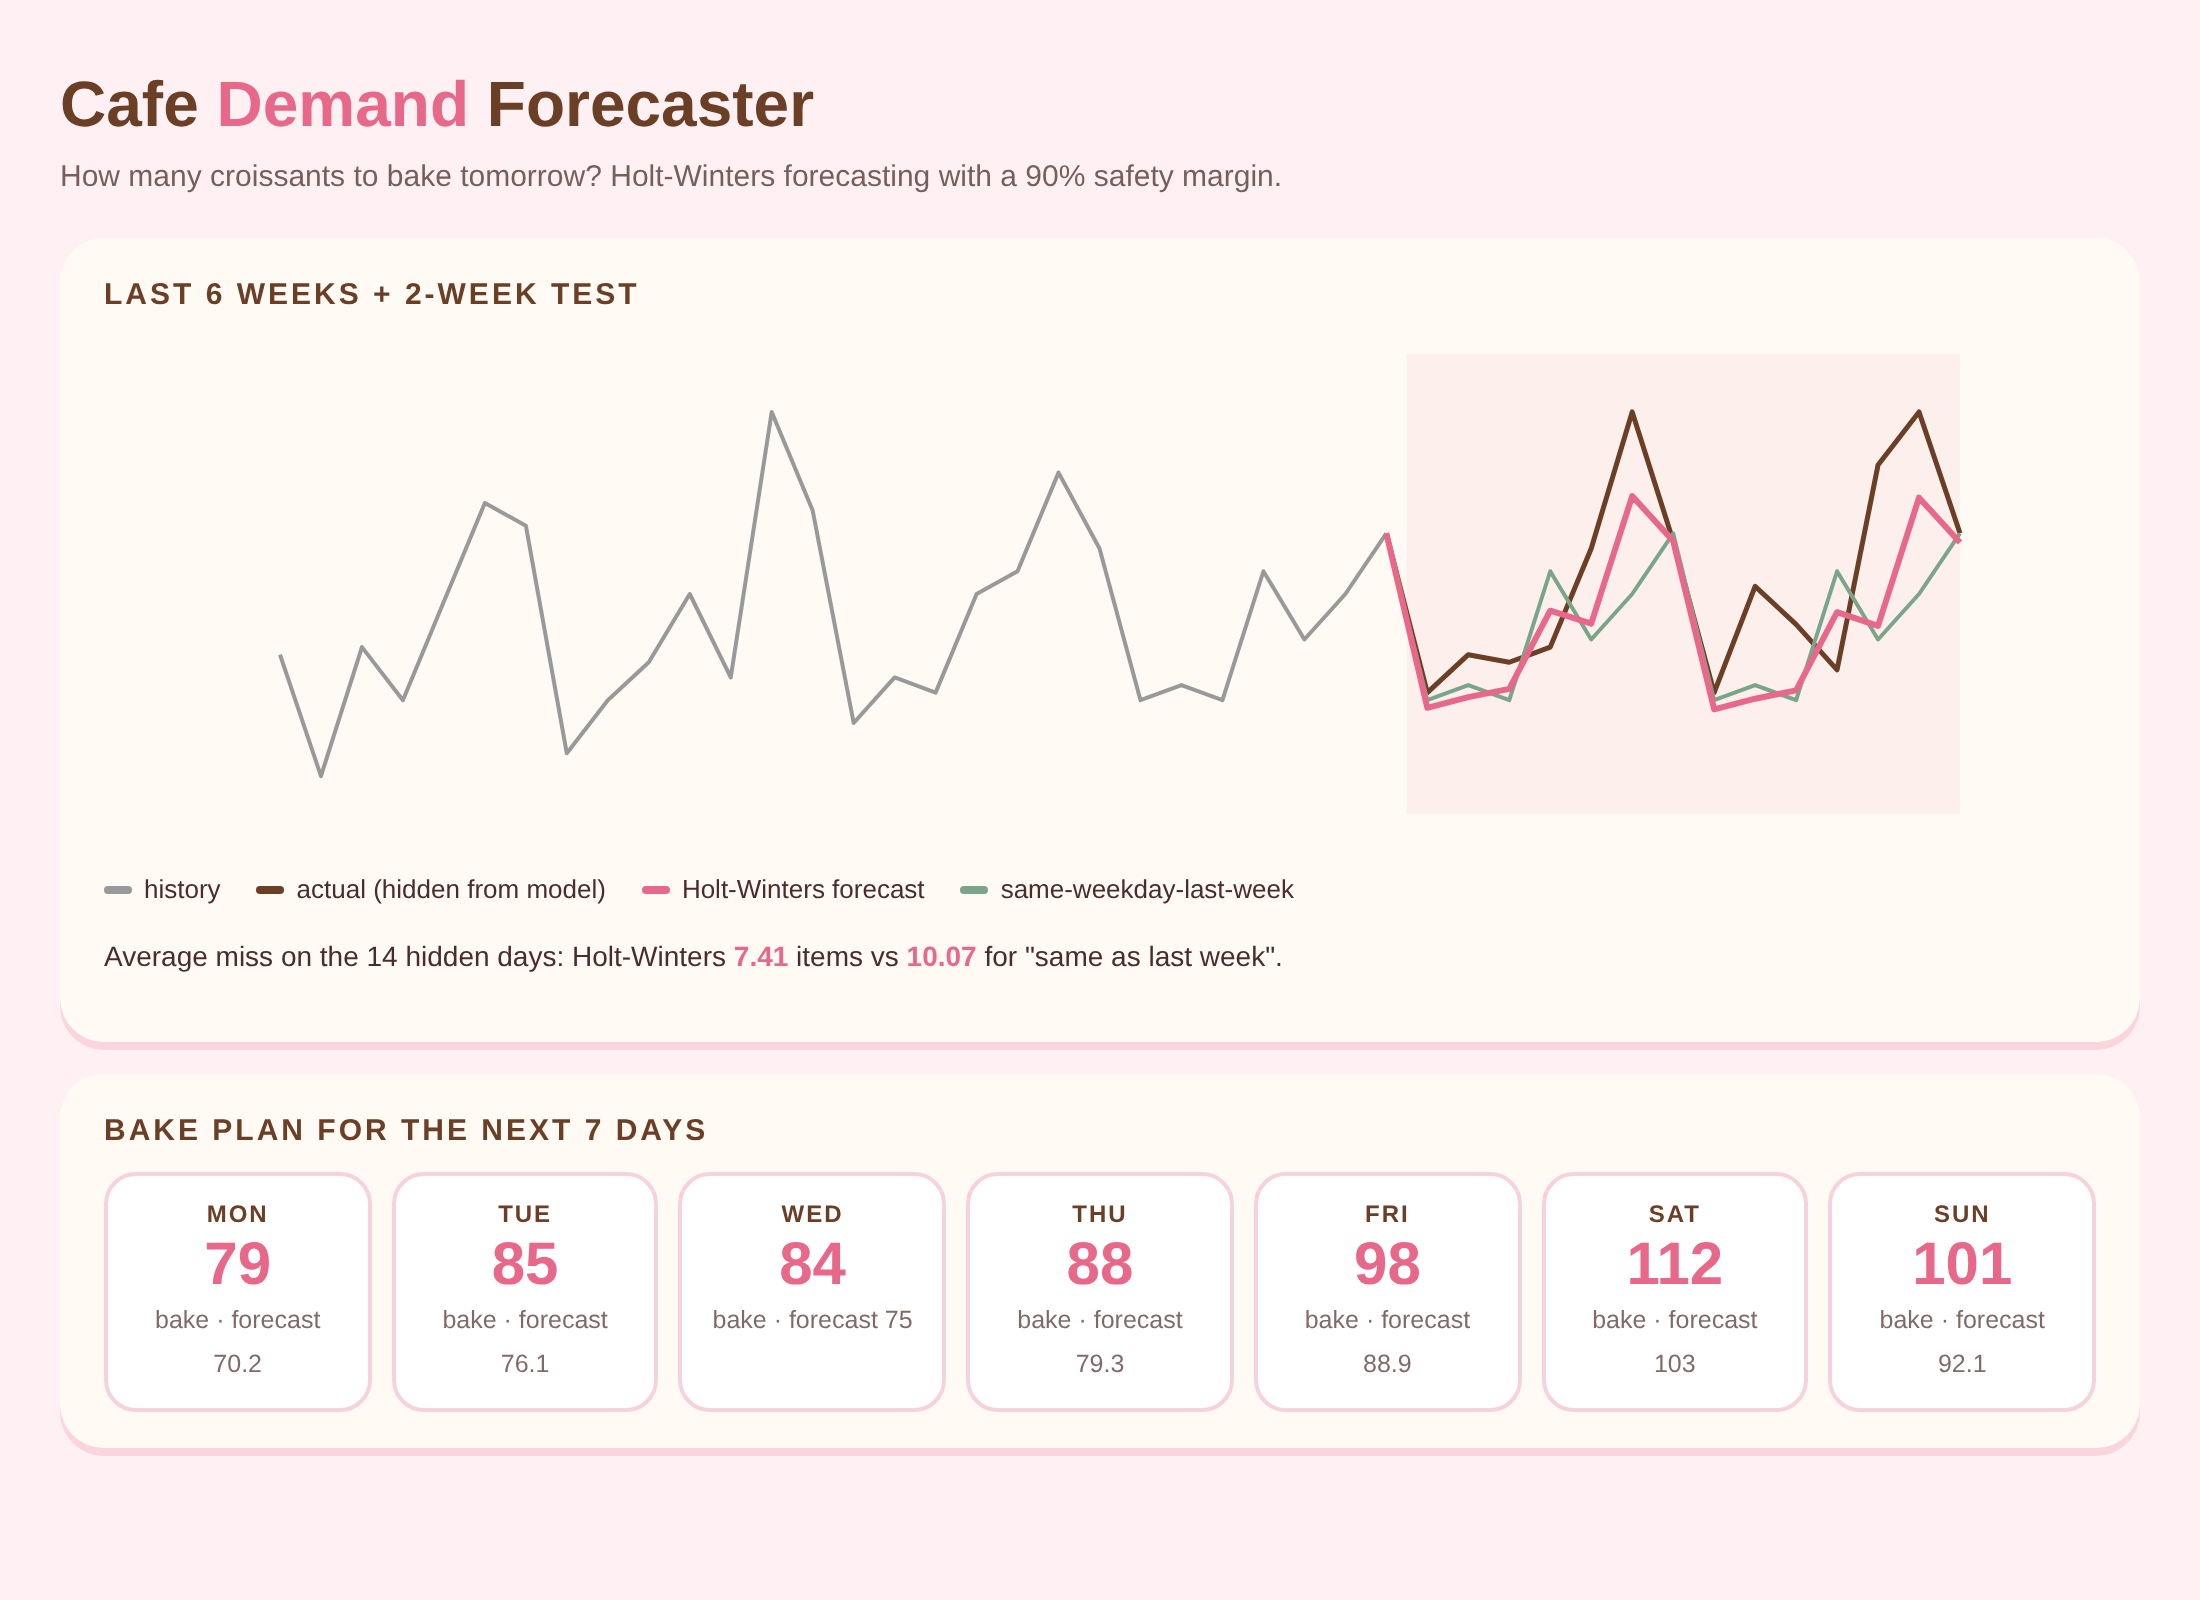
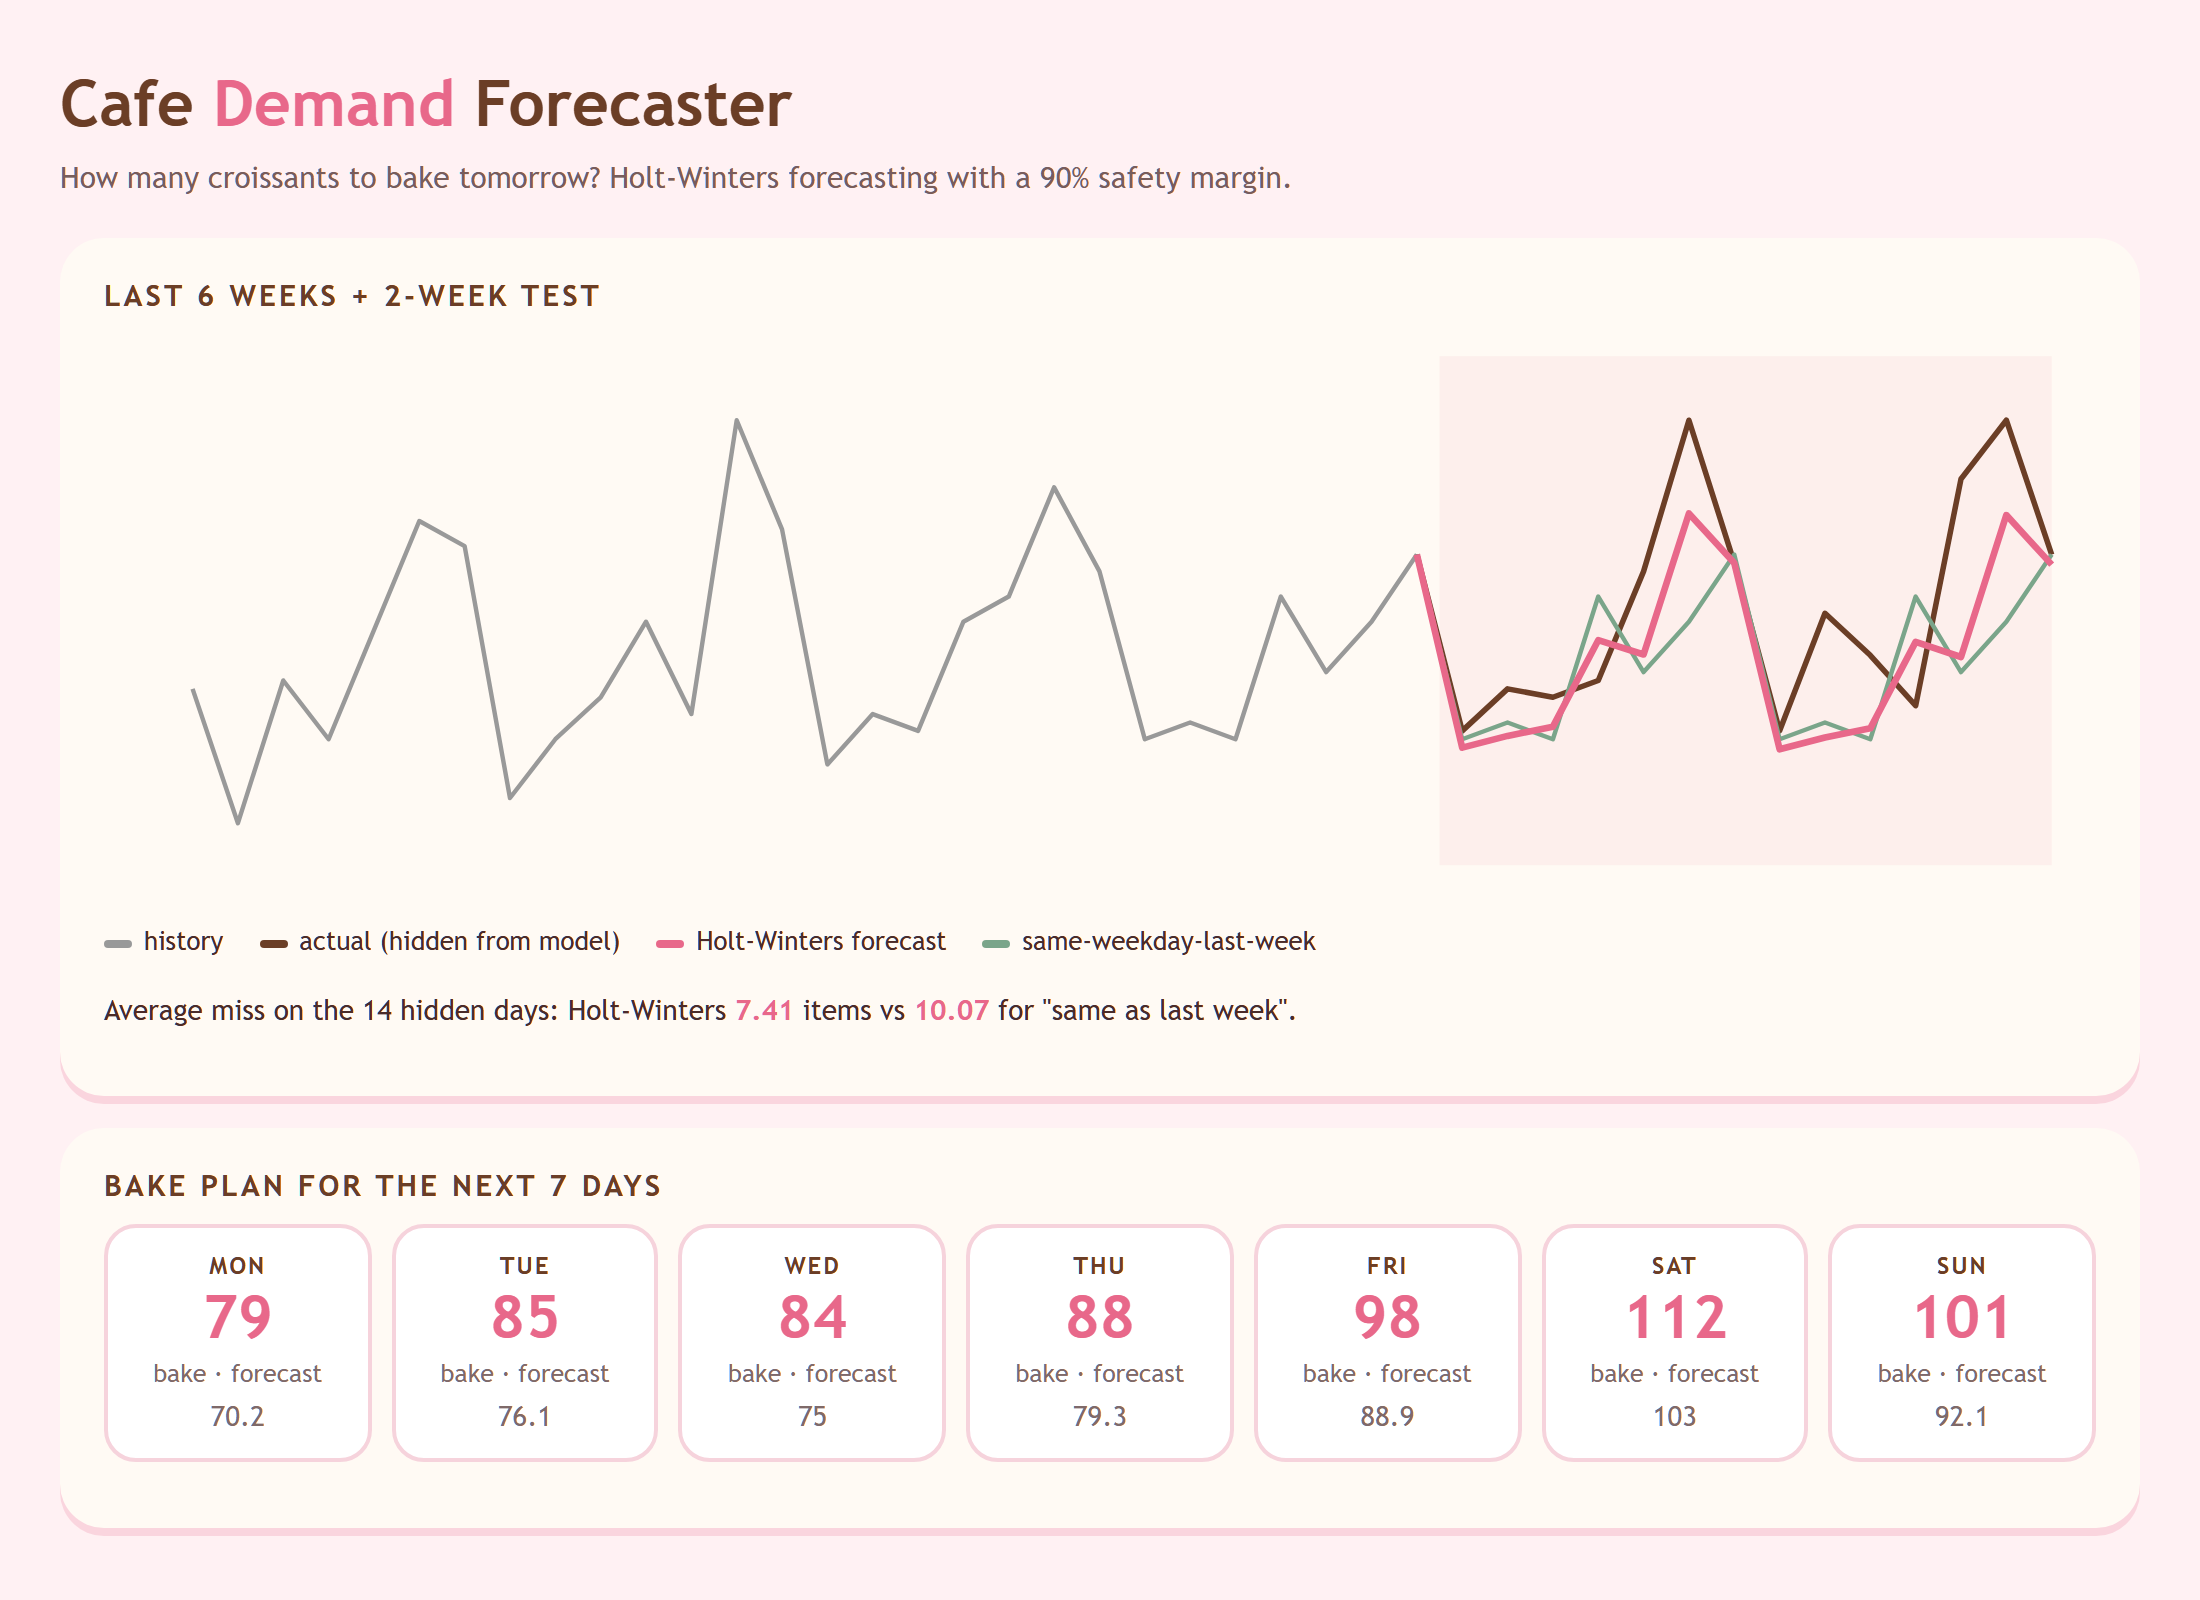
Update cafe-demand-forecaster in catalog
Reviewed in queue/0033-pr-reviews.md. Merged into catalog only.

diff --git a/projects/cafe-demand-forecaster/static/index.html b/projects/cafe-demand-forecaster/static/index.html
@@ -1,32 +1,36 @@
 <!doctype html><html lang="en"><head><meta charset="utf-8"><meta name="viewport" content="width=device-width,initial-scale=1">
 <title>Cafe Demand Forecaster</title>
 <style>
-:root{--bg:#fff1f3;--ink:#4a2c2a;--pink:#e8688a;--choc:#6b3e26;--cream:#fffaf4;--sage:#7aa58a}
+:root{--bg:#fff1f3;--ink:#4a2c2a;--pink:#e8688a;--choc:#6b3e26;--cream:#fffaf4;--sage:#7aa58a;--tile:#fff;--line:#f6d3dc}
+@media (prefers-color-scheme: dark){:root{--bg:#24161a;--ink:#fde9ee;--choc:#e9c6a8;--cream:#33222a;--pink:#ff8fb0;--sage:#8fc4a4;--tile:#2a1c20;--line:#5a3a43}}
 *{box-sizing:border-box}body{margin:0;background:var(--bg);color:var(--ink);font:15px/1.5 "Nunito","Trebuchet MS",sans-serif;padding:28px}
 main{max-width:1040px;margin:auto}h1{font-size:32px;margin:0;color:var(--choc)}h1 span{color:var(--pink)}p.s{margin:2px 0 18px;opacity:.75}
 .card{background:var(--cream);border-radius:22px;padding:18px 22px;box-shadow:0 4px 0 #e8688a33;margin-bottom:16px}
-svg{width:100%;height:260px}.leg{display:flex;gap:18px;font-size:13px;flex-wrap:wrap}.leg i{display:inline-block;width:14px;height:4px;margin-right:6px;vertical-align:middle;border-radius:2px}
-.days{display:grid;grid-template-columns:repeat(auto-fit,minmax(110px,1fr));gap:10px}.day{background:#fff;border-radius:16px;padding:10px 12px;text-align:center;border:2px solid #f6d3dc}
-.day b{display:block;font-size:30px;color:var(--pink);line-height:1.1}.day small{opacity:.7}.wk{font-weight:800;letter-spacing:1px;text-transform:uppercase;font-size:12px;color:var(--choc)}
+svg{width:100%;height:auto}.leg{display:flex;gap:18px;font-size:13px;flex-wrap:wrap}.leg i{display:inline-block;width:14px;height:4px;margin-right:6px;vertical-align:middle;border-radius:2px}
+.days{display:grid;grid-template-columns:repeat(auto-fit,minmax(110px,1fr));gap:10px}.day{background:var(--tile);border-radius:16px;padding:10px 12px;text-align:center;border:2px solid var(--line)}
+.day b{display:block;font-size:30px;color:var(--pink);line-height:1.1}.day small{opacity:.7}.day .fc{display:block;font-size:14px;opacity:.7}.wk{font-weight:800;letter-spacing:1px;text-transform:uppercase;font-size:12px;color:var(--choc)}
 h2{margin:0 0 8px;font-size:15px;text-transform:uppercase;letter-spacing:1.5px;color:var(--choc)}.m{font-size:14px}.m b{color:var(--pink)}
+#err{color:#c23a63}
 </style></head><body><main>
 <h1>Cafe <span>Demand</span> Forecaster</h1><p class="s">How many croissants to bake tomorrow? Holt-Winters forecasting with a 90% safety margin.</p>
 <div class="card"><h2>Last 6 weeks + 2-week test</h2><svg id="ch" viewBox="0 0 900 260"></svg>
 <div class="leg"><span><i style="background:#999"></i>history</span><span><i style="background:var(--choc)"></i>actual (hidden from model)</span><span><i style="background:var(--pink)"></i>Holt-Winters forecast</span><span><i style="background:var(--sage)"></i>same-weekday-last-week</span></div>
 <p class="m" id="m"></p></div>
-<div class="card"><h2>Bake plan for the next 7 days</h2><div class="days" id="days"></div></div></main>
+<div class="card"><h2>Bake plan for the next 7 days</h2><div class="days" id="days" role="list"></div><p id="err" role="status"></p></div></main>
 <script>
 const $=i=>document.getElementById(i);
 async function main(){
+try{
 const e=await (await fetch('/evaluation')).json();
 const hist=e.history.slice(-28),n=hist.length+e.actual.length;const all=[...hist,...e.actual,...e.forecast,...e.naive];const lo=Math.min(...all)-5,hi=Math.max(...all)+5;
 const x=i=>40+i/(n-1)*840,y=v=>240-(v-lo)/(hi-lo)*220;
-const line=(arr,off,col,w)=>`<polyline fill="none" stroke="${col}" stroke-width="${w}" stroke-linejoin="round" points="${arr.map((v,i)=>x(i+off)+','+y(v)).join(' ')}"/>`;
+const line=(arr,off,col,w)=>`<polyline fill="none" style="stroke:${col}" stroke-width="${w}" stroke-linejoin="round" points="${arr.map((v,i)=>x(i+off)+','+y(v)).join(' ')}"/>`;
 const cut=x(hist.length-.5);
-$('ch').innerHTML=`<rect x="${cut}" y="10" width="${880-cut}" height="230" fill="#e8688a" opacity=".07"/>`+line(hist,0,'#999',2)+line([hist[hist.length-1],...e.actual],hist.length-1,'#6b3e26',2.5)+line([hist[hist.length-1],...e.naive],hist.length-1,'#7aa58a',2)+line([hist[hist.length-1],...e.forecast],hist.length-1,'#e8688a',3);
+$('ch').innerHTML=`<rect x="${cut}" y="10" width="${880-cut}" height="230" fill="#e8688a" opacity=".07"/>`+line(hist,0,'#999',2)+line([hist[hist.length-1],...e.actual],hist.length-1,'var(--choc)',2.5)+line([hist[hist.length-1],...e.naive],hist.length-1,'var(--sage)',2)+line([hist[hist.length-1],...e.forecast],hist.length-1,'var(--pink)',3);
 $('m').innerHTML=`Average miss on the 14 hidden days: Holt-Winters <b>${e.mae_holdw}</b> items vs <b>${e.mae_naive}</b> for "same as last week".`;
 const s=await (await fetch('/sample')).json();
 const p=await (await fetch('/plan',{method:'POST',headers:{'Content-Type':'application/json'},body:JSON.stringify({last_day:s.last_day,sold:s.sold,days:7})})).json();
-$('days').innerHTML=p.days.map(d=>`<div class="day"><div class="wk">${d.weekday}</div><b>${d.bake}</b><small>bake · forecast ${d.forecast}</small></div>`).join('')}
+$('days').innerHTML=p.days.map(d=>`<div class="day" role="listitem"><div class="wk">${d.weekday}</div><b>${d.bake}</b><small>bake · forecast</small><span class="fc">${d.forecast}</span></div>`).join('');
+}catch(err){$('err').textContent='Could not load the forecast. Refresh to try again.'}}
 main();
 </script></body></html>

diff --git a/projects/cafe-demand-forecaster/tests/test_all.py b/projects/cafe-demand-forecaster/tests/test_all.py
@@ -84,3 +84,15 @@ def test_api():
     assert c.get("/evaluation").json()["holdout_days"] == 14
     assert c.post("/plan", json={"last_day": "2026-01-01", "sold": [1, 2, 3]}).status_code == 422
     assert c.get("/").status_code == 200
+
+
+def test_index_has_error_text():
+    assert "Could not load the forecast" in c.get("/").text
+
+
+def test_index_has_dark_scheme():
+    assert "prefers-color-scheme: dark" in c.get("/").text
+
+
+def test_plan_days_are_a_list():
+    assert 'role="list"' in c.get("/").text
